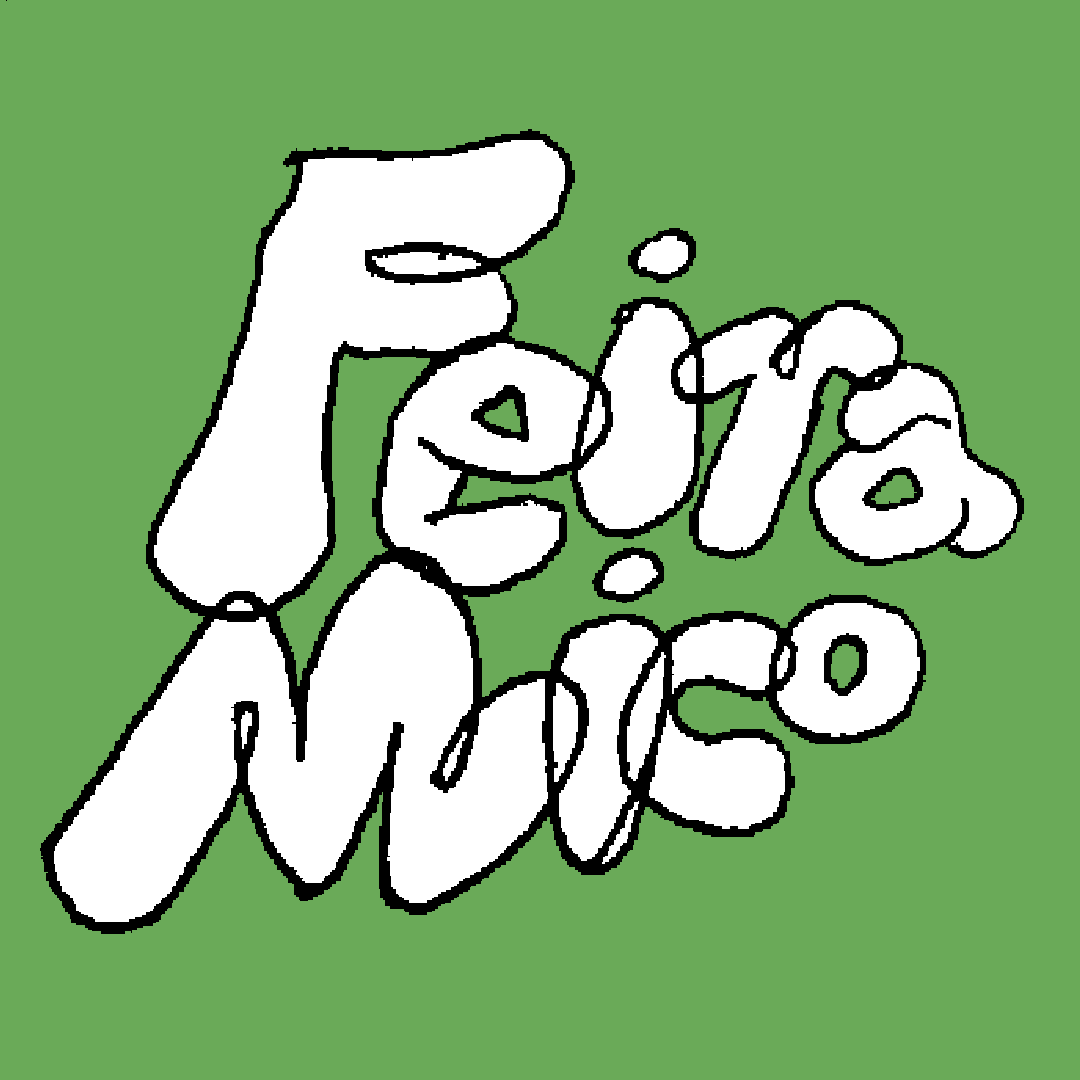
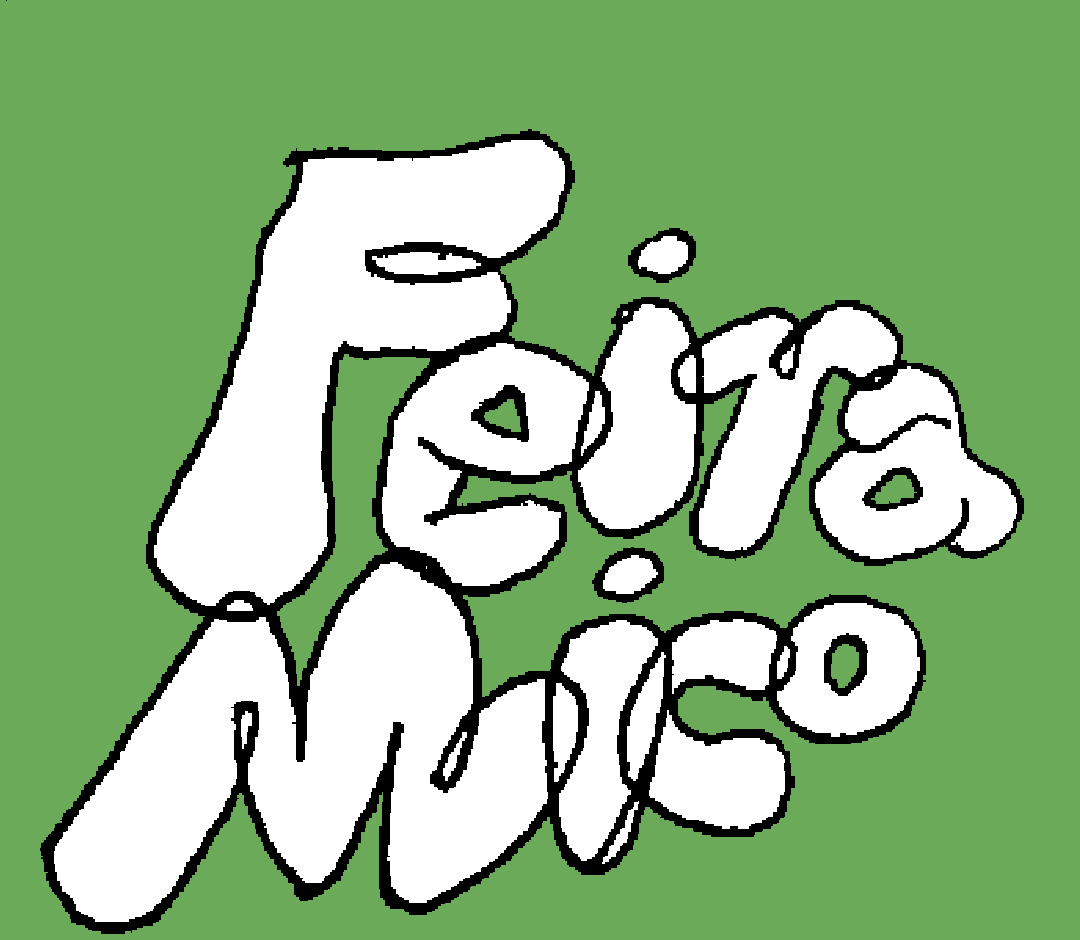
mico

diff --git a/css/home.css b/css/home.css
@@ -1,19 +1,42 @@
 body,
 html {
-  min-height: 100vh;
-  display: flex;
-  flex-direction: column;
-  background-color: #6aaa58;
-  color: #252525;
-  scrollbar-color: #252525 #6aaa58;
-  scrollbar-width: thin;
-  font-family: "helvetica";
-  font-size: 20px;
-  line-height: 1.5;
-  margin: 0;
+    min-height: 100vh;
+    display: flex;
+    flex-direction: column;
+    background-color: #6aaa58;
+    color: #252525;
+    scrollbar-color: #252525 #6aaa58;
+    scrollbar-width: thin;
+    font-family: "helvetica";
+    font-size: 15px;
+    line-height: 1.5;
+    margin: 0;
 }
 
 header {
-  margin-top: 2.5%;
-  margin-bottom: 2.5%;
+    margin-top: 2.5%;
+    margin-bottom: 2.5%;
+}
+
+a:link {
+    text-decoration: none;
+    color: #252525;
+}
+
+a:hover {
+    font-weight: bold;
+    font-style: italic;
+    color: #252525;
+}
+
+a:visited {
+    color: #252525;
+}
+
+h1 {
+    font-size: 25px;
+}
+
+h2 {
+    font-size: 20px;
 }